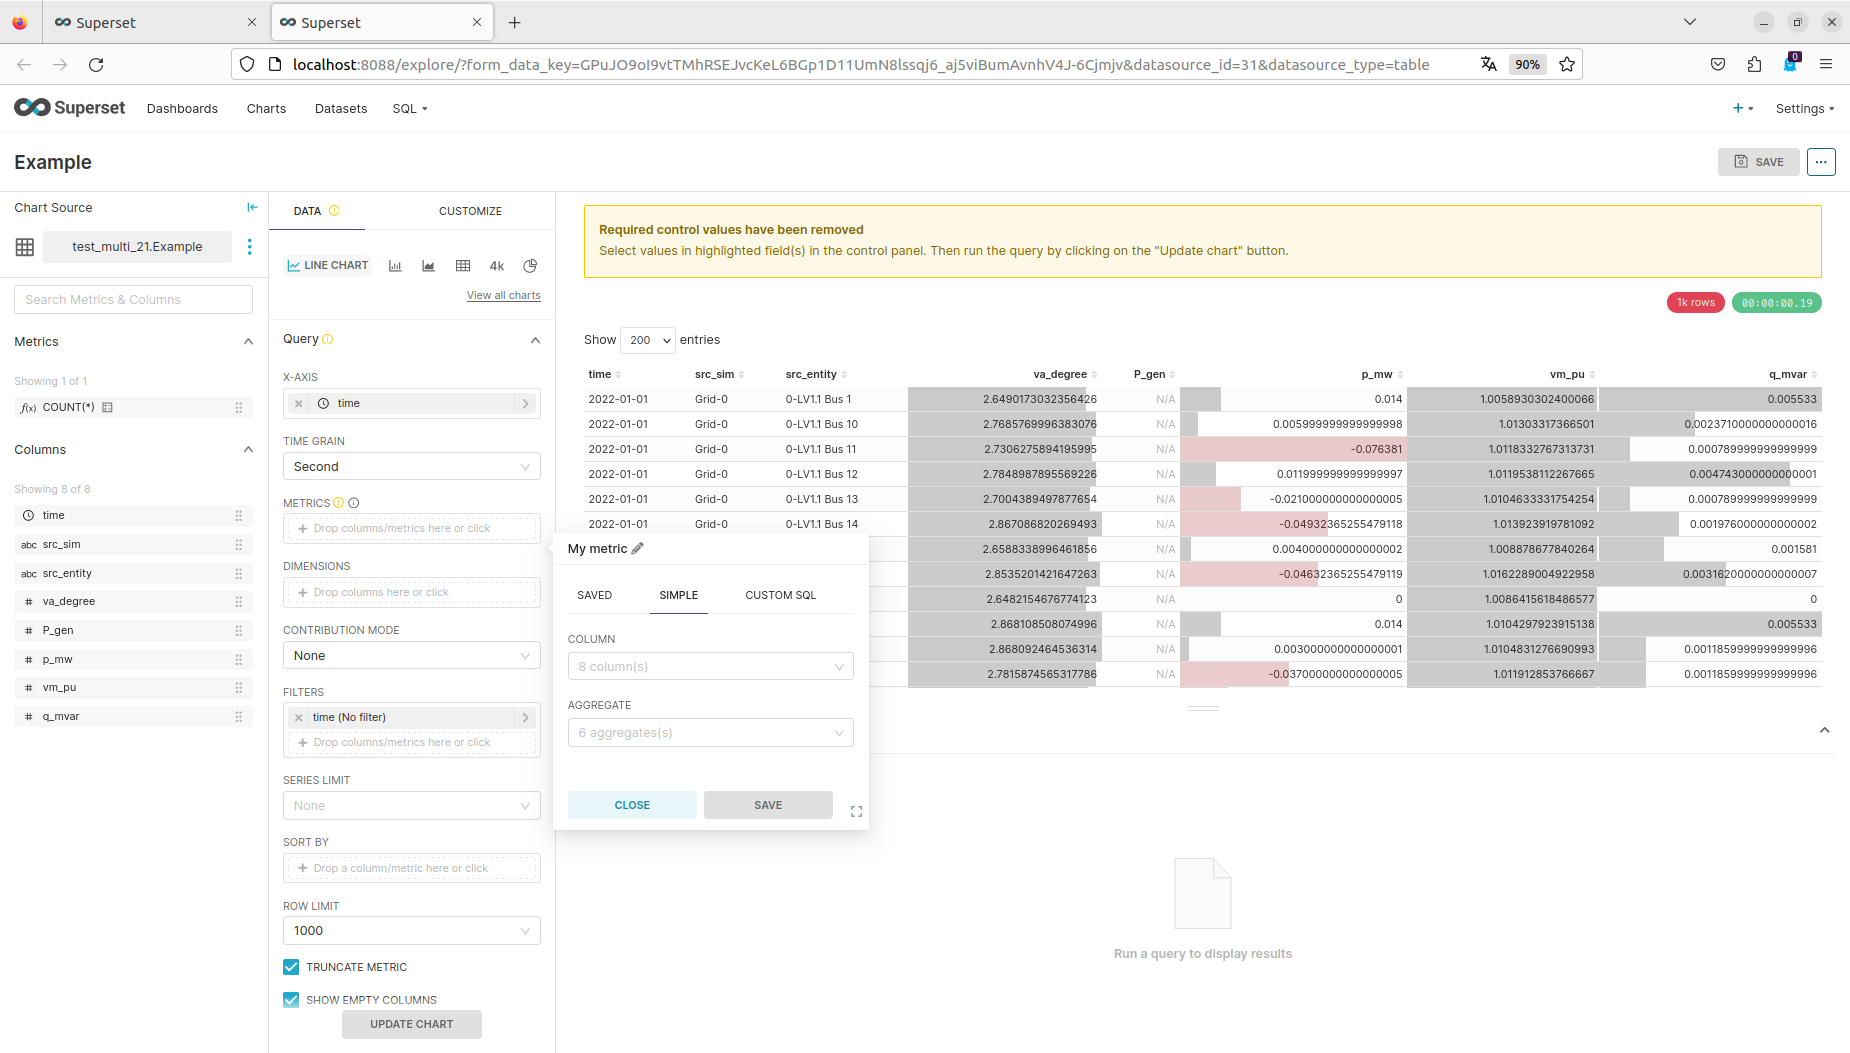
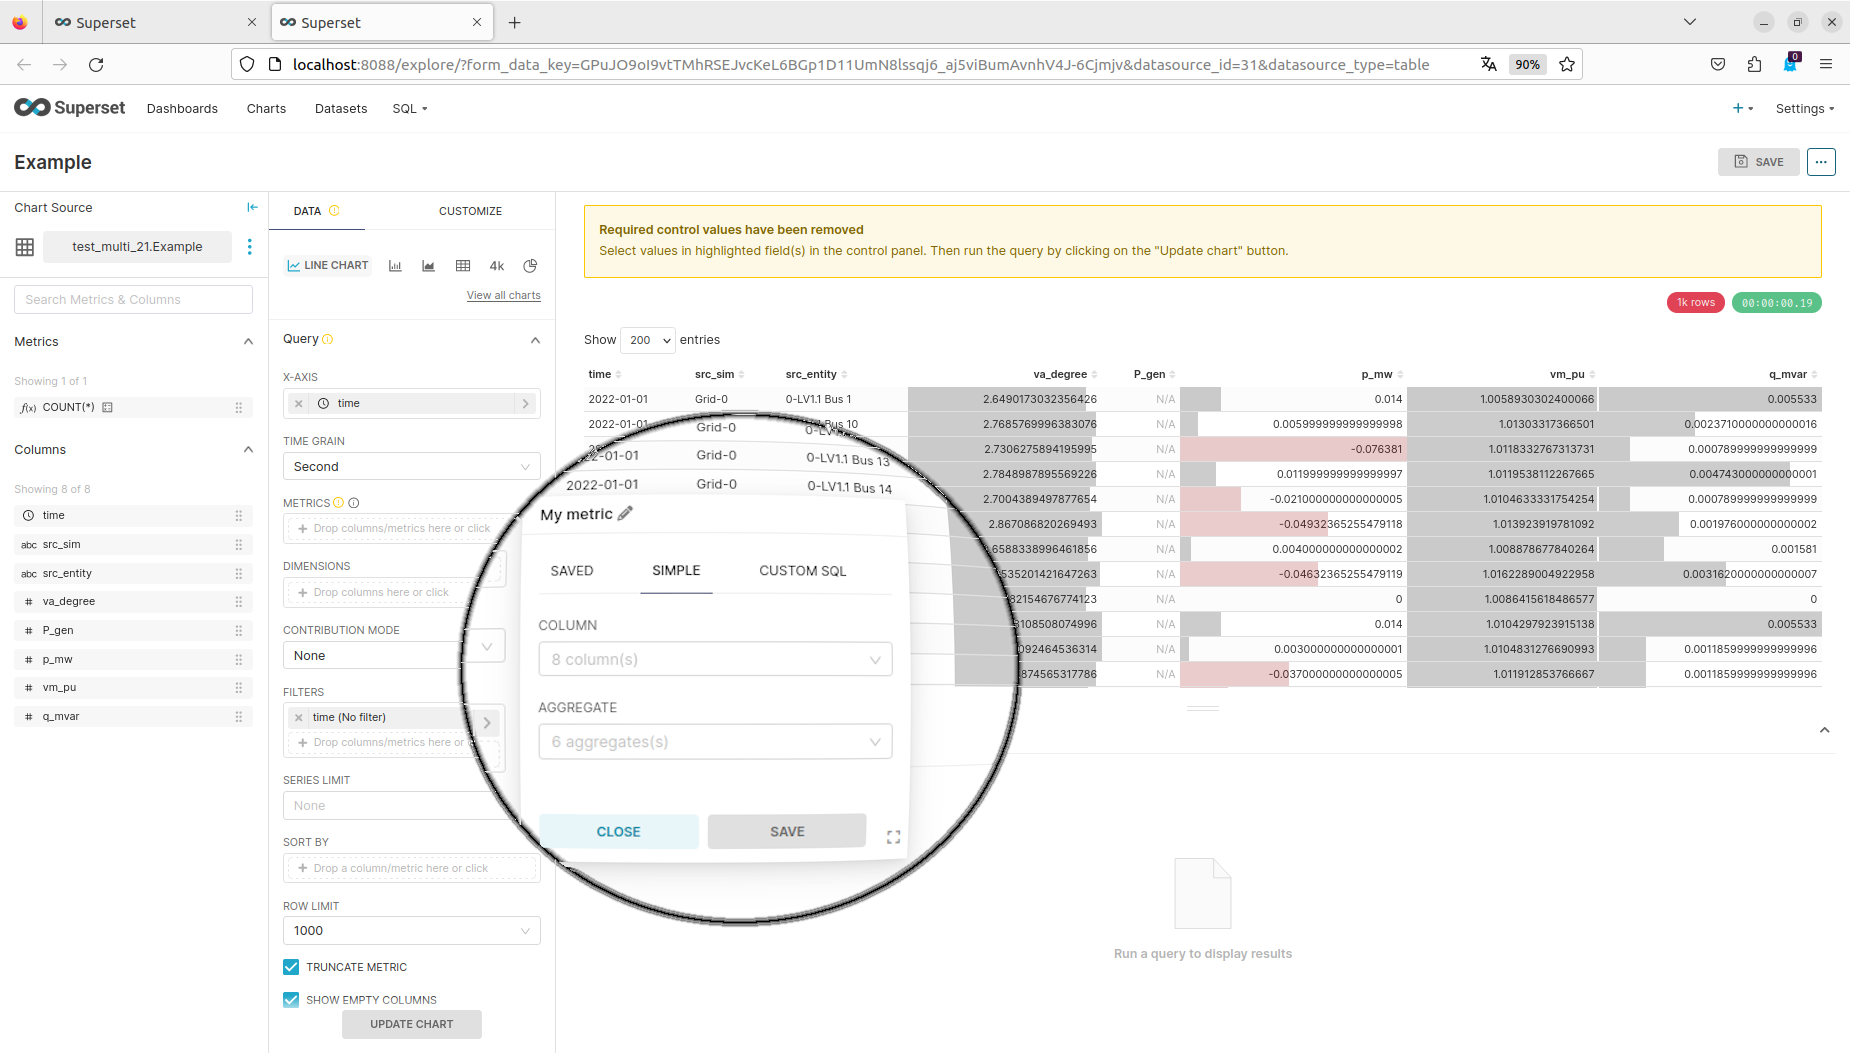
Changed the pictures

Changed region(s): [[0.2465, 0.3647, 0.5546, 0.8509], [0.3389, 0.8509, 0.4622, 0.8813], [0.4005, 0.5166, 0.4622, 0.5774]]

diff --git a/docs/tutorials/apache-superset.rst b/docs/tutorials/apache-superset.rst
@@ -55,11 +55,13 @@ To install the production version of Superset locally clone the Superset reposit
 Afterwards a secret key needs to be set for the production version. 
 For this the file superset_config.py is needed.
 It can be copied into the right place using the command:
+
 .. code-block:: bash
 
    $ cp ./docker/pythonpath_dev/superset_config_local.example ./docker/pythonpath_dev/superset_config_docker.py
 
 When this is done a Secret Key can be generated using the command 
+
 .. code-block:: bash
 
    $ openssl rand -base64 42
@@ -95,7 +97,7 @@ Database Connections Setting
 
 Afterwards a new Database is added  by clickin on the ``Database +`` Button.
 
-.. figure:: /_static/tutorials/superset/Superset Database.png
+.. figure:: /_static/tutorials/superset/Superset_Databases.png
    :width: 100%
    :align: center
    :alt: Button to click for adding a database
@@ -103,19 +105,19 @@ Button to click for adding a database
 
 This initiates the add database dialog consisting of three steps:
 
-.. figure:: /_static/tutorials/superset/Connect a Database.png
+.. figure:: /_static/tutorials/superset/Connect_a_Database.png
    :width: 100%
    :align: center
    :alt: Step 1: Choosing the correct database(PostgreSQL in this example)
 Step 1: Choosing the correct database(PostgreSQL in this example)
 
-.. figure:: /_static/tutorials/superset/Connect Step 2.png
+.. figure:: /_static/tutorials/superset/Connect_Step_2.png
    :width: 100%
    :align: center
    :alt: Step 2: Adding the database Credentials
 Step 2: Adding the database Credentials. If the database i run locally the IP-Address is 172.18.0.1 by default.
 
-.. figure:: /_static/tutorials/superset/Connect step 3.png
+.. figure:: /_static/tutorials/superset/Connect_step_3.png
    :width: 100%
    :align: center
    :alt: Step 3: Finishing the setup
@@ -127,7 +129,7 @@ Visualizing Data in Apache Superset
 After connecting the database to superset the data can now be visualized.
 To do this first the data needs to be extracted from the databae using SQL. This is done in the SQL Lab:
 
-.. figure:: /_static/tutorials/superset/SQL LAB.png
+.. figure:: /_static/tutorials/superset/SQL_LAB.png
    :width: 100%
    :align: center
    :alt: SQL LAB view
@@ -154,7 +156,7 @@ And it being a single cast when it being the table_type string:
 
 After extracting the wanted data using a SQL query it needs to be saved as a dataset by running the query and afterwards using the save button:
 
-.. figure:: /_static/tutorials/superset/Save Dataset 2.png
+.. figure:: /_static/tutorials/superset/Save_Dataset_2.png
    :width: 100%
    :align: center
    :alt: SQL LAB saing
@@ -162,7 +164,7 @@ View of saving the dataset in the SQL Lab
 
 Clicking the ``Save & Explore`` Button will open up the Chart creation view of superset. This can also be done afterwards by selecting the wanted dataset in the datasets tab.
 
-.. figure:: /_static/tutorials/superset/Default Chart.png
+.. figure:: /_static/tutorials/superset/Default_Chart.png
    :width: 100%
    :align: center
    :alt: Chart View
@@ -173,7 +175,7 @@ the data from the dataset into the chart and the right chart where the chart wil
 
 For this example lets start by selecting a line chart from the left side and then adding data to the relevant fields.
 
-.. figure:: /_static/tutorials/superset/Default Chart.png
+.. figure:: /_static/tutorials/superset/Default_Chart_Arrow.png
    :width: 100%
    :align: center
    :alt: Chart View Changing to line chart
@@ -183,7 +185,7 @@ After changing the chart to line chart the relevant fields to fill out are the x
 Superset can not display  simple y value, it is always a sql function. If a simple x/y comparison is needed the avg/min/max of the y values can be used since for only one value this is the value itself.
 
 
-.. figure:: /_static/tutorials/superset/x axis.png
+.. figure:: /_static/tutorials/superset/x_axis.png
    :width: 100%
    :align: center
    :alt: Chart View selecting x axis
@@ -195,7 +197,7 @@ For selecting the x Axis you can chose from your dataset columns. Most of the ti
    :alt: Chart View selecting metrics
 When selecting a metric there are many basic sql aggregation functions to choose from.
 
-.. figure:: /_static/tutorials/superset/metrics 3.png
+.. figure:: /_static/tutorials/superset/metrics_3.png
    :width: 100%
    :align: center
    :alt: Chart View selecting metrics 2
@@ -204,7 +206,7 @@ After Selecting the metrics you can render the chart by clickin the ``Create Cha
 
 Multiple metrics can be selected but only one x-Axis.
 
-.. figure:: /_static/tutorials/superset/Finished Graph.png
+.. figure:: /_static/tutorials/superset/Finished_Graph.png
    :width: 100%
    :align: center
    :alt: Chart View selecting metrics 3
@@ -214,21 +216,23 @@ If for your chart you cannot see the graph try making the time grain smaller.
 There is a number of different charts available to visualize the data. After finishing your chart it needs to be saved inside a dashboard.
 This is done by clicking the save button and giving the chart a name and either picking an existing dashboard or selecting the name of a new dashboard to be created.
 
-.. figure:: /_static/tutorials/superset/New Dashboard.png
+.. figure:: /_static/tutorials/superset/New_Dashboard.png
    :width: 100%
    :align: center
    :alt: Chart View create Dashboard
 This is the saving menu of the chart view.
 
 After saving the chart in a dashboard the created/picked dashboard can be found in the dashboard view.
-.. figure:: /_static/tutorials/superset/The Dashboard.png
+
+.. figure:: /_static/tutorials/superset/The_Dashboard_superset.png
    :width: 100%
    :align: center
    :alt: Chart View create Dashboard
 This is the dashboard view.
 
 If a dashboard is selected it displays all charts that are saved in it.
-.. figure:: /_static/tutorials/superset/Dashboard Full.png
+
+.. figure:: /_static/tutorials/superset/Dashboard_Full_superset.png
    :width: 100%
    :align: center
    :alt: Dashboard Full
@@ -236,7 +240,7 @@ This is the created example dashboard.
 
 Inside a dashboard charts can be updated, removed, looked at in fullscreen, exported and more.
 
-.. figure:: /_static/tutorials/superset/Example Fullscreen.png
+.. figure:: /_static/tutorials/superset/Example_Fullscreen.png
    :width: 100%
    :align: center
    :alt: Dashboard Fullscreen
